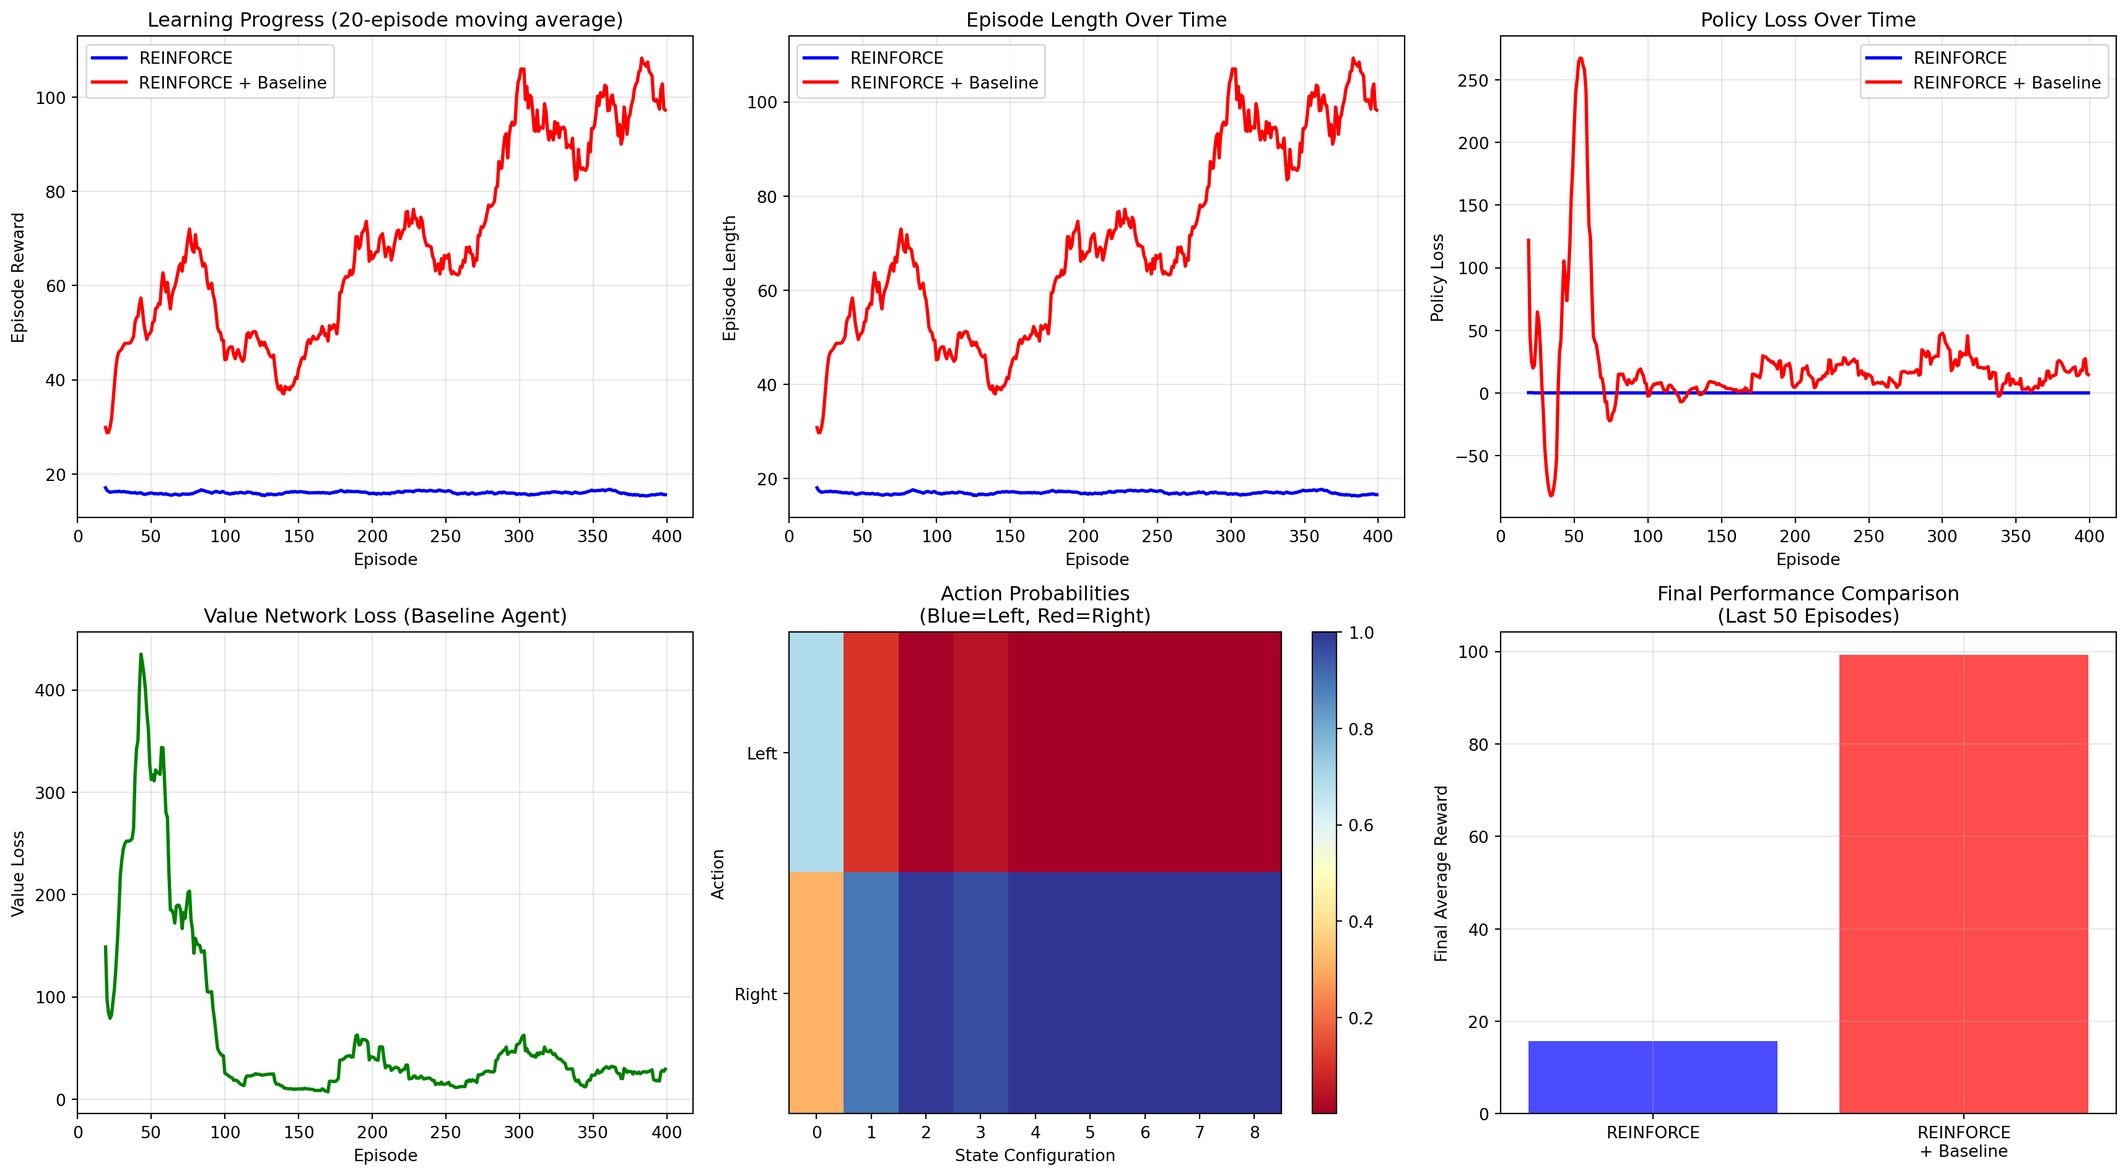
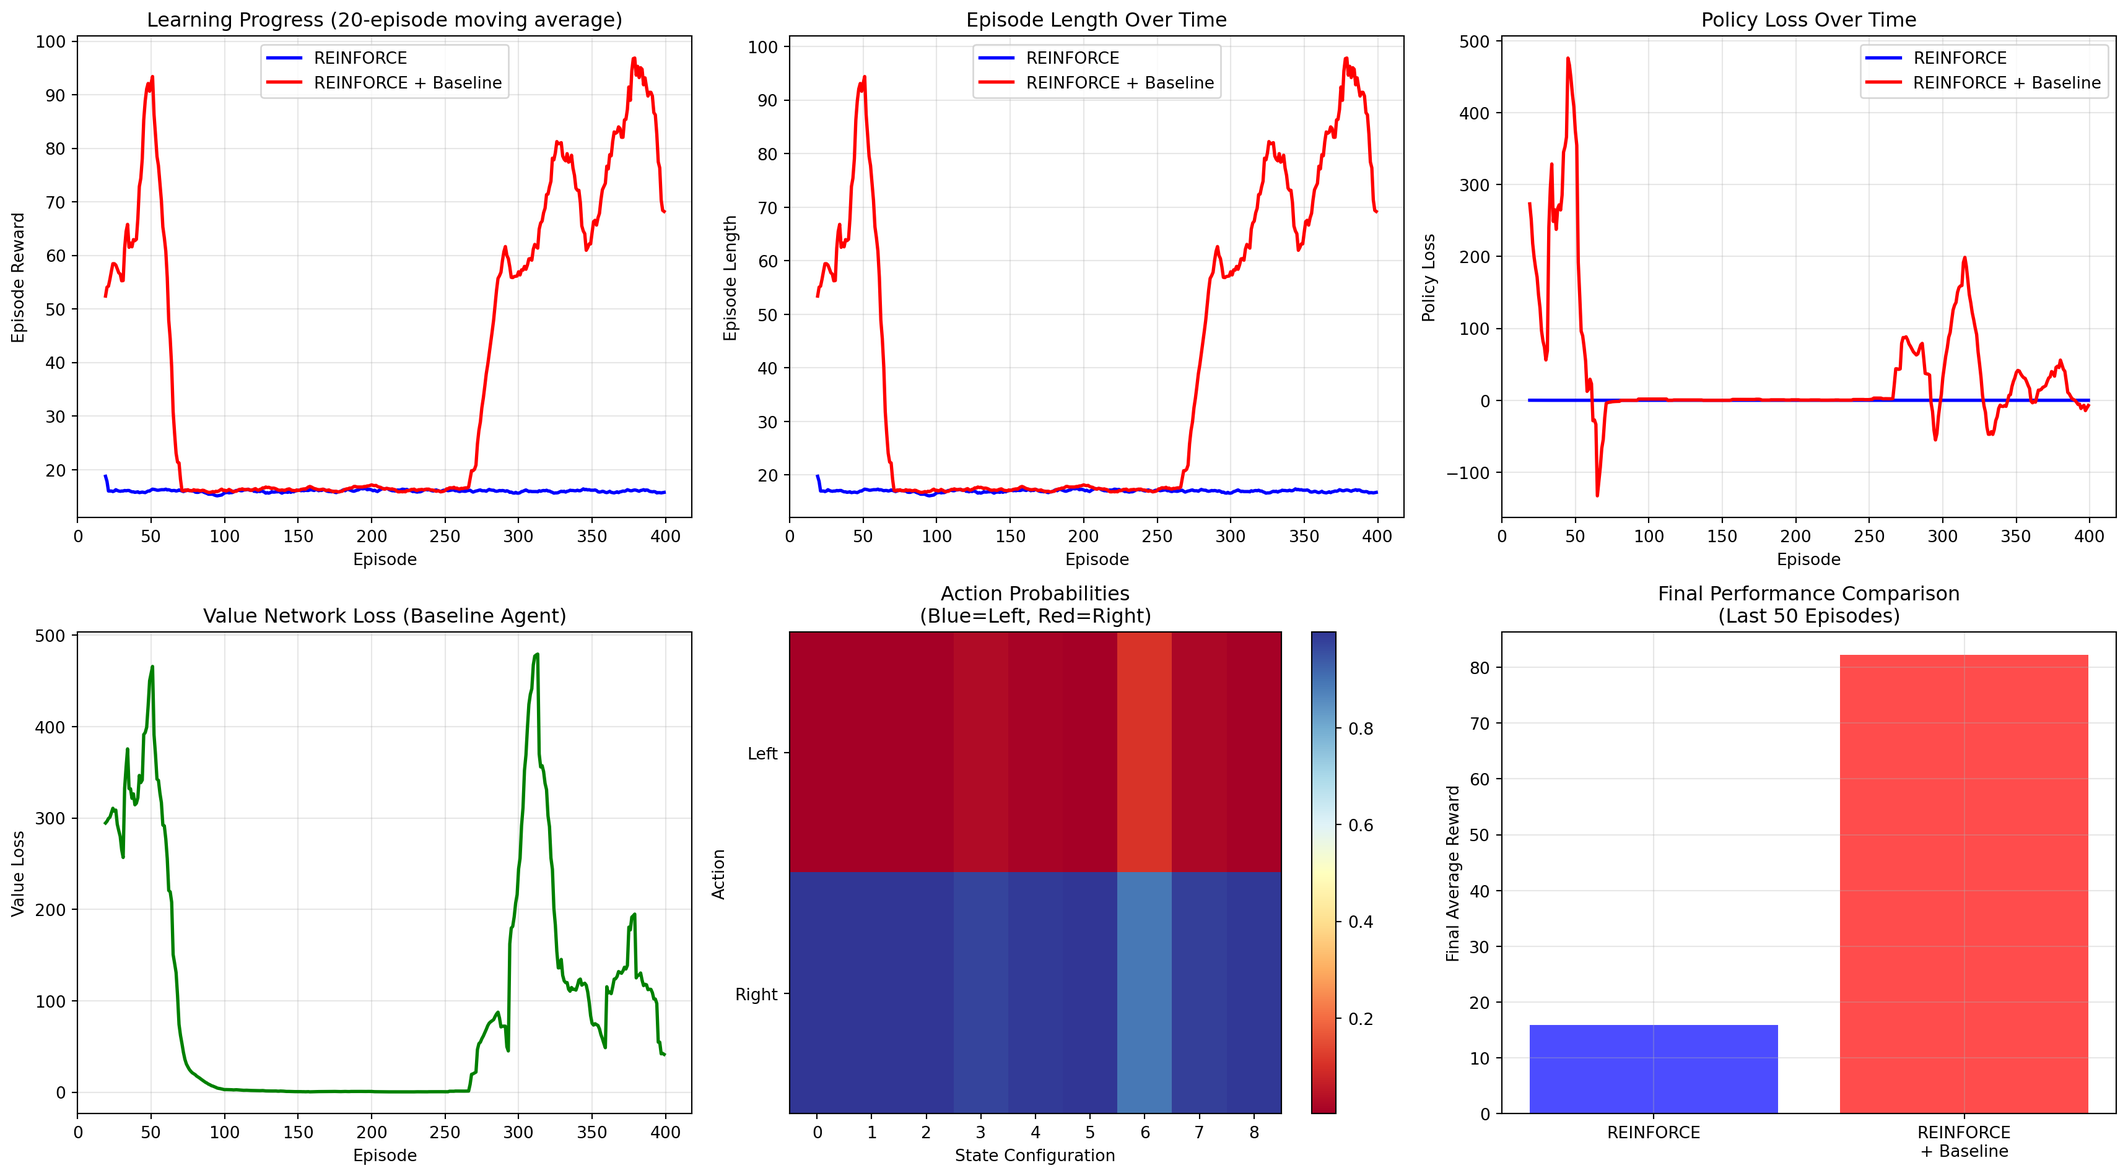
refactor: update reinforcement learning content and formatting for clarity

diff --git a/docs/lessons/expert/1-rl-part-2.html b/docs/lessons/expert/1-rl-part-2.html
@@ -308,7 +308,7 @@ window.Quarto = {
     <h2 id="toc-title">On this page</h2>
    
   <ul>
-  <li><a href="#what-is-reinforcement-learning" id="toc-what-is-reinforcement-learning" class="nav-link active" data-scroll-target="#what-is-reinforcement-learning">What is Reinforcement Learning?</a></li>
+  <li><a href="#reinforcement-learning-on-a-more-serious-note" id="toc-reinforcement-learning-on-a-more-serious-note" class="nav-link active" data-scroll-target="#reinforcement-learning-on-a-more-serious-note">Reinforcement Learning on a more serious note…</a></li>
   <li><a href="#the-rl-framework-agent-environment-interaction" id="toc-the-rl-framework-agent-environment-interaction" class="nav-link" data-scroll-target="#the-rl-framework-agent-environment-interaction">The RL Framework: Agent-Environment Interaction</a>
   <ul class="collapse">
   <li><a href="#core-components" id="toc-core-components" class="nav-link" data-scroll-target="#core-components">Core Components</a></li>
@@ -362,34 +362,42 @@ window.Quarto = {
 </header>
 
 
-<section id="what-is-reinforcement-learning" class="level2">
-<h2 class="anchored" data-anchor-id="what-is-reinforcement-learning">What is Reinforcement Learning?</h2>
-<p>Reinforcement learning (RL) is a framework for learning optimal behavior through trial-and-error interaction with an environment. Unlike supervised learning (where we have correct answers) or unsupervised learning (where we find patterns), RL learns from rewards and penalties.</p>
-<p><strong>Think of it like learning to drive:</strong> You don’t get a manual with every possible scenario - instead, you learn by trying actions (steering, braking) and experiencing consequences (smooth ride, honking horns, accidents). Over time, you develop a driving policy that maximizes good outcomes.</p>
+<section id="reinforcement-learning-on-a-more-serious-note" class="level2">
+<h2 class="anchored" data-anchor-id="reinforcement-learning-on-a-more-serious-note">Reinforcement Learning on a more serious note…</h2>
+<p>Reinforcement learning (RL) is a framework for learning optimal behavior through <strong>trial-and-error</strong> interaction with an environment. Unlike supervised learning (where we have correct answers) or unsupervised learning (where we find patterns), RL learns from <strong>rewards</strong> and <strong>penalties</strong>.</p>
+<p><strong>When learning to drive:</strong> You don’t get a manual with every possible scenario - instead, you learn by trying actions (steering, braking) and experiencing consequences (smooth ride, honking horns, accidents). Over time, you develop a driving policy that maximizes good outcomes.</p>
 </section>
 <section id="the-rl-framework-agent-environment-interaction" class="level2">
 <h2 class="anchored" data-anchor-id="the-rl-framework-agent-environment-interaction">The RL Framework: Agent-Environment Interaction</h2>
 <div class="quarto-figure quarto-figure-center">
 <figure class="figure">
-<p><img src="https://via.placeholder.com/500x300/4a90e2/ffffff?text=Agent-Environment+Interaction+Loop.png" class="img-fluid figure-img"></p>
-<figcaption>RL Agent-Environment Loop</figcaption>
+<p><img src="https://gymnasium.farama.org/_images/AE_loop.png" class="img-fluid figure-img" style="width:70.0%"></p>
+<figcaption>RL Agent-Environment Loop. Credit: Gymnasium Documentation</figcaption>
 </figure>
 </div>
 <p><em>Figure 1: The fundamental RL loop where an agent takes actions in an environment and receives observations and rewards</em></p>
 <section id="core-components" class="level3">
 <h3 class="anchored" data-anchor-id="core-components">Core Components</h3>
-<p><strong>Agent</strong>: The learner/decision-maker (you, the driver)<br>
-<strong>Environment</strong>: Everything outside the agent (road, other cars, traffic laws)<br>
-<strong>State (<span class="math inline">s_t</span>)</strong>: The true state of the environment at time t (positions of all cars, traffic light status)<br>
-<strong>Observation (<span class="math inline">o_t</span>)</strong>: What the agent actually perceives (what you see through your windshield)<br>
-<strong>Action (<span class="math inline">a_t</span>)</strong>: Choice made by the agent (turn left, brake, accelerate)<br>
-<strong>Reward (<span class="math inline">r_t</span>)</strong>: Feedback signal from environment (+1 for reaching destination, -100 for accident)</p>
+<ul>
+<li><strong>Agent</strong>: The learner/decision-maker (you, the driver)<br>
+</li>
+<li><strong>Environment</strong>: Everything outside the agent (road, other cars, traffic laws)<br>
+</li>
+<li><strong>State (<span class="math inline">s_t</span>)</strong>: The true state of the environment at time t (positions of all cars, traffic light status)<br>
+</li>
+<li><strong>Observation (<span class="math inline">o_t</span>)</strong>: What the agent actually perceives (what you see through your windshield)<br>
+</li>
+<li><strong>Action (<span class="math inline">a_t</span>)</strong>: Choice made by the agent (turn left, brake, accelerate)<br>
+</li>
+<li><strong>Reward (<span class="math inline">r_t</span>)</strong>: Feedback signal from environment (+1 for reaching destination, -100 for accident)</li>
+</ul>
 </section>
 <section id="the-markov-property-why-states-matter" class="level3">
 <h3 class="anchored" data-anchor-id="the-markov-property-why-states-matter">The Markov Property: Why States Matter</h3>
-<p><strong>Key assumption</strong>: The future depends only on the current state, not the entire history.</p>
+<p>The Markov property states that the future state depends only on the current state, not on the sequence of events that led to the current state. This is a key assumption that makes the problem tractable (manageable).</p>
 <p><span class="math display">P(s_{t+1} | s_t, a_t, s_{t-1}, a_{t-1}, ...) = P(s_{t+1} | s_t, a_t)</span></p>
-<p><strong>Driving analogy</strong>: To predict what happens next, you only need to know current positions and speeds, not how cars got there. This makes the problem tractable - otherwise we’d need infinite memory.</p>
+<p><strong>Explanation</strong>: The equation states that the probability of transitioning to state <span class="math inline">s_{t+1}</span> depends only on the current state <span class="math inline">s_t</span> and current action <span class="math inline">a_t</span>, not on any previous states or actions. The left side shows the full history-dependent probability, while the right side shows it reduces to just the current state-action pair.</p>
+<p><strong>Driving analogy</strong>: To predict what happens next, you only need to know current positions and speeds, not how cars got there. This makes the problem tractable, otherwise we’d need infinite memory.</p>
 </section>
 </section>
 <section id="policies-and-value-functions" class="level2">
@@ -404,22 +412,37 @@ window.Quarto = {
 </section>
 <section id="value-functions-measuring-long-term-success" class="level3">
 <h3 class="anchored" data-anchor-id="value-functions-measuring-long-term-success">Value Functions: Measuring Long-term Success</h3>
-<p>The <strong>state value function</strong> measures expected cumulative discounted reward:</p>
+<p>The <strong>state value function</strong> measures expected cumulative discounted reward. <span class="math inline">V^\pi(s)</span> quantifies the expected total discounted reward an agent will accumulate starting from state <span class="math inline">s</span> and following policy <span class="math inline">\pi</span> forever. The discount factor <span class="math inline">\gamma</span> exponentially reduces the weight of future rewards - a reward <span class="math inline">k</span> steps in the future gets weighted by <span class="math inline">\gamma^k</span>. The discount factor is a hyperparameter that controls how much we value future rewards compared to immediate rewards.</p>
+<p>The equation defines how we measure the “goodness” of being in a particular state under a specific policy.</p>
+<p><strong>Example</strong>: When evaluating a job offer, the “value” of accepting the job isn’t just your first paycheck - it’s all future paychecks combined, but you care less about paychecks 10 years from now than next month’s paycheck. The discount factor is like your personal “impatience rate.”</p>
 <p><span class="math display">V^\pi(s) = \mathbb{E}_\pi\left[\sum_{k=0}^{\infty} \gamma^k R_{t+k+1} \mid S_t = s\right]</span></p>
-<p>Where: - <span class="math inline">\gamma \in [0,1]</span> is the <strong>discount factor</strong> (future rewards matter less) - <span class="math inline">R_{t+k+1}</span> is the reward at time <span class="math inline">t+k+1</span></p>
-<p><strong>Why discounting?</strong> 1. Uncertainty increases with time 2. Immediate rewards often preferred (bird in hand…) 3. Mathematical convenience (prevents infinite sums)</p>
+<p>Where:</p>
+<ul>
+<li><span class="math inline">\gamma \in [0,1]</span> is the <strong>discount factor</strong> (future rewards matter less)</li>
+<li>k is the <strong>time offset</strong> - it represents how many time steps into the future we’re looking from the current time t.</li>
+<li><span class="math inline">R_{t+k+1}</span> is the reward at time <span class="math inline">t+k+1</span></li>
+</ul>
+<p><strong>Why discounting?</strong></p>
+<ol type="1">
+<li>Uncertainty increases with time</li>
+<li>Immediate rewards often preferred (bird in hand…)</li>
+<li>Mathematical convenience (prevents infinite sums)</li>
+</ol>
 </section>
 <section id="action-value-function-q-function" class="level3">
 <h3 class="anchored" data-anchor-id="action-value-function-q-function">Action-Value Function (Q-function)</h3>
-<p><span class="math display">Q^\pi(s,a) = \mathbb{E}_\pi\left[\sum_{k=0}^{\infty} \gamma^k R_{t+k+1} \mid S_t = s, A_t = a\right]</span></p>
 <p>This tells us: “How good is taking action <span class="math inline">a</span> in state <span class="math inline">s</span>, then following policy <span class="math inline">\pi</span>?”</p>
+<p>The action-value function (Q-function) measures the expected cumulative discounted reward from taking a specific action in a specific state, then following the policy thereafter.</p>
+<p><span class="math inline">Q^π(s,a)</span> quantifies the total expected return when you take action <span class="math inline">a</span> in state <span class="math inline">s</span>, then follow policy <span class="math inline">\pi</span> for all subsequent decisions. <strong>It’s conditioned on both the initial state AND the initial action</strong>, <em>unlike the state value function which only conditions on the state.</em></p>
+<p><strong>Evaluating a chess move</strong>: The Q-function answers: “If I make this specific move right now, then play optimally (according to my strategy) for the rest of the game, what’s my expected final score?” It’s not just asking “how good is this position?” but “how good is this specific move from this position?”</p>
+<p><span class="math display">Q^\pi(s,a) = \mathbb{E}_\pi\left[\sum_{k=0}^{\infty} \gamma^k R_{t+k+1} \mid S_t = s, A_t = a\right]</span></p>
 </section>
 </section>
 <section id="the-optimal-policy" class="level2">
 <h2 class="anchored" data-anchor-id="the-optimal-policy">The Optimal Policy</h2>
 <p>We seek the policy that maximizes expected return:</p>
 <p><span class="math display">\pi^* = \arg\max_\pi \mathbb{E}_{s_0 \sim \rho}[V^\pi(s_0)]</span></p>
-<p>Where <span class="math inline">\rho</span> is the distribution over initial states.</p>
+<p>Where: - <span class="math inline">\rho</span> is the distribution over initial states. - <span class="math inline">s_0</span> is the initial state. - <span class="math inline">\mathbb{E}_{s_0 \sim \rho}</span> means “the expected value of the initial state under the distribution <span class="math inline">\rho</span>”. - <span class="math inline">\pi</span> is the policy. - <span class="math inline">V^\pi(s_0)</span> is the value of the initial state under policy <span class="math inline">\pi</span>. - <span class="math inline">\arg\max_\pi</span> means “the policy that maximizes the expected return” (point us to the best (max/optimal) policy).</p>
 <p><strong>Bellman Optimality Equation:</strong> <span class="math display">V^*(s) = \max_a \sum_{s'} P(s'|s,a)[R(s,a,s') + \gamma V^*(s')]</span></p>
 <p>This recursive relationship is the foundation of many RL algorithms.</p>
 </section>

diff --git a/docs/lessons/expert/1-rl-fundamentals.html b/docs/lessons/expert/1-rl-fundamentals.html
@@ -357,16 +357,16 @@ window.Quarto = {
 </ul>
 <section id="how-to-think-of-these-key-concepts" class="level3">
 <h3 class="anchored" data-anchor-id="how-to-think-of-these-key-concepts">How to think of these key concepts</h3>
-<ul>
-<li><p><strong>Agent</strong> - decision maker or learner. E.g. a robot trying to navigate a maze, the classic pacman game, or a self-driving car.</p>
 <div class="quarto-figure quarto-figure-center">
 <figure class="figure">
-<p><img src="https://www.cs.csubak.edu/~mcorral/cs2680/Final/images/pgame.jpg" class="img-fluid figure-img"></p>
+<p><img src="https://www.cs.csubak.edu/~mcorral/cs2680/Final/images/pgame.jpg" class="img-fluid figure-img" style="width:70.0%"></p>
 <figcaption>Pacman</figcaption>
 </figure>
-</div></li>
+</div>
+<ul>
+<li><p><strong>Agent</strong> - decision maker or learner. E.g. a robot trying to navigate a maze, the classic pacman game, or a self-driving car.</p></li>
 <li><p><strong>Environment</strong> - Everything outside the agent. E.g. The maze, the game board, the road.</p></li>
-<li><p><strong>State, <span class="math inline">s_t</span></strong> - The agent’s internal representation of a situation at a particular time, t. It’s a “mental map” of where it is and what the agent knows. E.g. The state might include the coordinates in the maze, what direction it is facing and what it has learnt so far.</p></li>
+<li><p><strong>State, <span class="math inline">s_t</span></strong> - The agent’s internal representation of a situation at a particular time, <span class="math inline">t</span>. It’s a “mental map” of where it is and what the agent knows. E.g. The state might include the coordinates in the maze, what direction it is facing and what it has learnt so far.</p></li>
 <li><p><strong>Policy, <span class="math inline">\pi</span></strong> - The strategy (or rule) that guides decision making (that is maps states to actions). <strong>It is the decision making function.</strong> E.g. if the robot is a wall in front, turn right or left.</p></li>
 <li><p><strong>Action, <span class="math inline">a_t = \pi(s_t)</span></strong> - Choice made by the agent. E.g. Robot turning right or moving forward.</p></li>
 <li><p><strong>Observation</strong> - The information received from environment by an agent. E.g. Robot observes “I bumped into a wall” or “I found a clear path.”</p></li>
@@ -403,9 +403,9 @@ V_{\pi}(s_0) = {E}_p(a_0, s_1, ..., a_T, s_T|s_0, \pi) \left[ \sum_{t=0}^T  R(s_
 </section>
 <section id="multi-armed-bandit-problem" class="level2">
 <h2 class="anchored" data-anchor-id="multi-armed-bandit-problem">Multi-Armed Bandit Problem</h2>
-<p>When there are a finite number of possible actions, this is called a multi-armed bandit.</p>
+<p>When there are a finite number of possible actions, this is called a <strong>multi-armed bandit</strong>.</p>
 <p>Imagine you’re in a Vegas casino with a row of slot machines (the “bandits” - they’re called one-armed bandits because of the lever). Each machine has different odds of paying out, but you don’t know which ones are better. You have limited money and time.</p>
-<p>Your challenge: figure out which machines are the best while still making money. This is the multi-armed bandit problem - <strong>how do you balance exploring new options to find the best one, versus exploiting what you already know works?</strong></p>
+<p><strong>Your challenge:</strong> figure out which machines are the best while still making money. This is the multi-armed bandit problem - <strong>how do you balance exploring new options to find the best one, versus exploiting what you already know works?</strong></p>
 <section id="examine-scenario" class="level3">
 <h3 class="anchored" data-anchor-id="examine-scenario">Examine Scenario</h3>
 <p>Let’s say you have 3 coffee shops near your office:</p>
@@ -424,6 +424,7 @@ V_{\pi}(s_0) = {E}_p(a_0, s_1, ..., a_T, s_T|s_0, \pi) \left[ \sum_{t=0}^T  R(s_
 </section>
 <section id="real-world-applications" class="level3">
 <h3 class="anchored" data-anchor-id="real-world-applications">Real-World Applications</h3>
+<p>Here are some examples of reinforcement learning applications. <a href="https://neptune.ai/blog/reinforcement-learning-applications">Neptune.AI</a> has a great list of examples with visualizations and links to papers that I found very interesting. You should check it out.</p>
 <ol type="1">
 <li><strong>Online Advertising:</strong> Which ad version gets the most clicks? Companies test different versions while still showing profitable ones.</li>
 <li><strong>Netflix Recommendations:</strong> Which movies to suggest? Netflix balances showing you movies similar to what you liked (exploit) vs.&nbsp;new genres you might enjoy (explore).</li>

diff --git a/docs/lessons/expert/9-policy-gradient-methods.html b/docs/lessons/expert/9-policy-gradient-methods.html
@@ -886,16 +886,16 @@ For each episode:
 <span id="cb3-345"><a href="#cb3-345" aria-hidden="true" tabindex="-1"></a><span class="bu">print</span>(<span class="ss">f"• Variance reduction is crucial for policy gradient methods"</span>)</span></code><button title="Copy to Clipboard" class="code-copy-button"><i class="bi"></i></button></pre></div>
 <div class="cell-output cell-output-stdout">
 <pre><code>Training REINFORCE (vanilla)...
-Episode 0, Average Reward: 28.00
-Episode 100, Average Reward: 16.06
-Episode 200, Average Reward: 15.99
-Episode 300, Average Reward: 16.07
+Episode 0, Average Reward: 34.00
+Episode 100, Average Reward: 16.28
+Episode 200, Average Reward: 16.03
+Episode 300, Average Reward: 16.04
 
 Training REINFORCE with Baseline...
-Episode 0, Average Reward: 79.00
-Episode 100, Average Reward: 51.12
-Episode 200, Average Reward: 52.46
-Episode 300, Average Reward: 76.80</code></pre>
+Episode 0, Average Reward: 30.00
+Episode 100, Average Reward: 42.02
+Episode 200, Average Reward: 16.44
+Episode 300, Average Reward: 29.41</code></pre>
 </div>
 <div class="cell-output cell-output-display">
 <div id="reinforce-cartpole" class="quarto-figure quarto-figure-center anchored">
@@ -908,9 +908,9 @@ Episode 300, Average Reward: 76.80</code></pre>
 <div class="cell-output cell-output-stdout">
 <pre><code>
 Final Performance Summary:
-REINFORCE (vanilla): 15.70
-REINFORCE + Baseline: 99.22
-Improvement with baseline: 532.0%
+REINFORCE (vanilla): 15.90
+REINFORCE + Baseline: 82.18
+Improvement with baseline: 416.9%
 
 Key Insights:
 • Baseline reduces variance and improves learning stability

diff --git a/docs/lessons/expert/5-dynamic-programming.html b/docs/lessons/expert/5-dynamic-programming.html
@@ -932,7 +932,7 @@ Repeat:
 Converged after 6 iterations
 
 Running Policy Iteration...
-Policy iteration converged after 5 iterations</code></pre>
+Policy iteration converged after 4 iterations</code></pre>
 </div>
 <div class="cell-output cell-output-display">
 <div id="value-iteration-gridworld" class="quarto-figure quarto-figure-center anchored">
